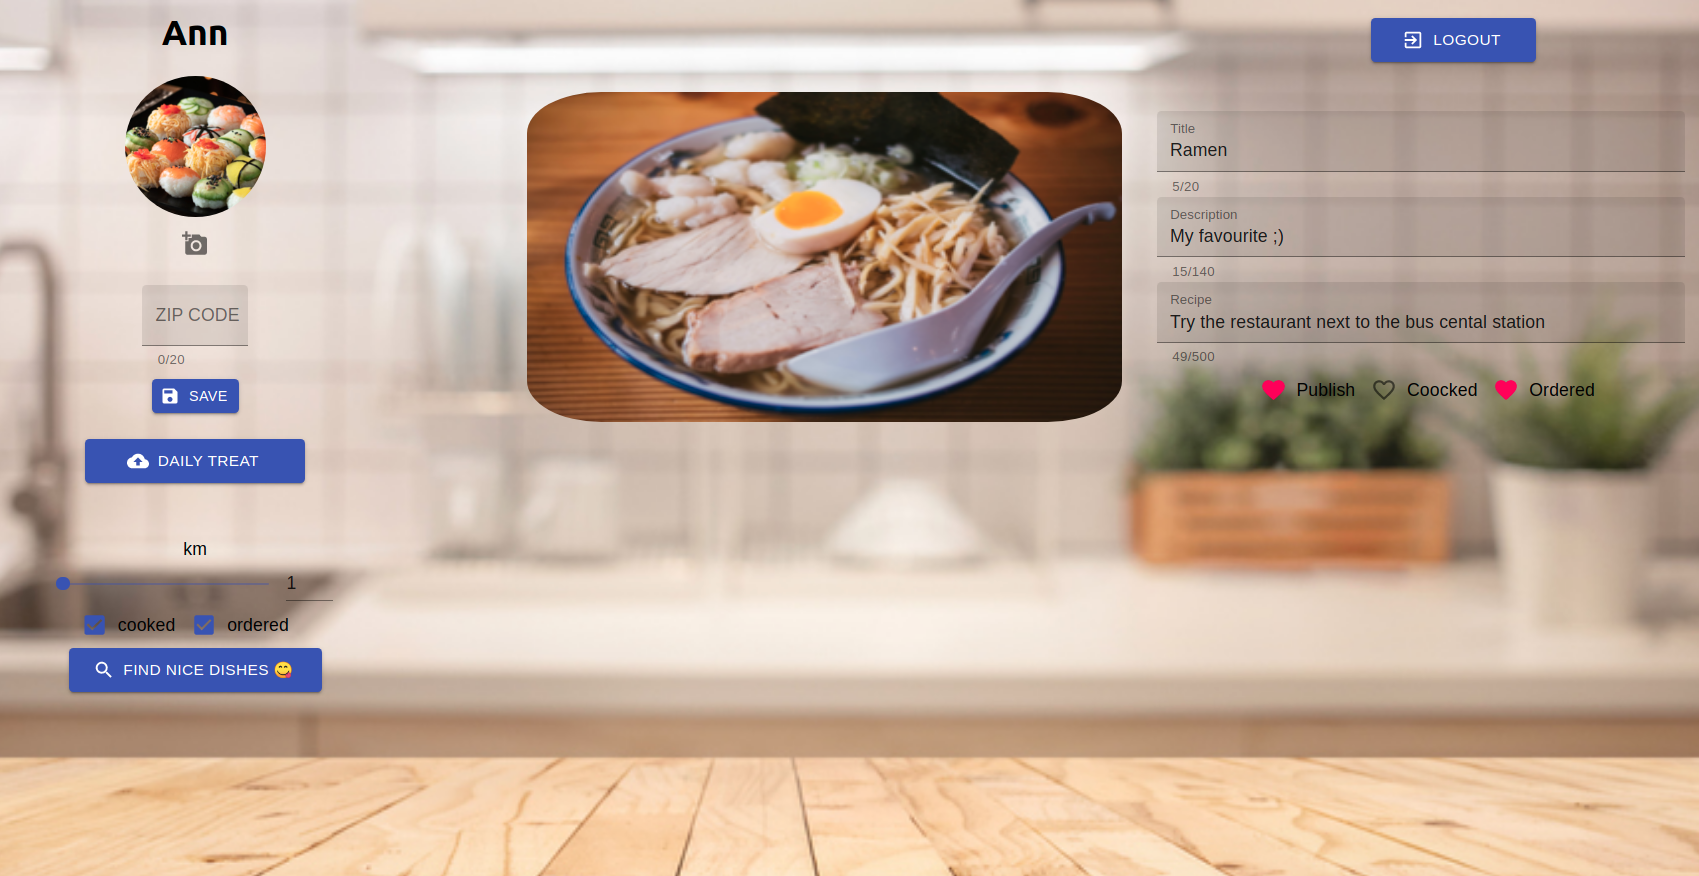
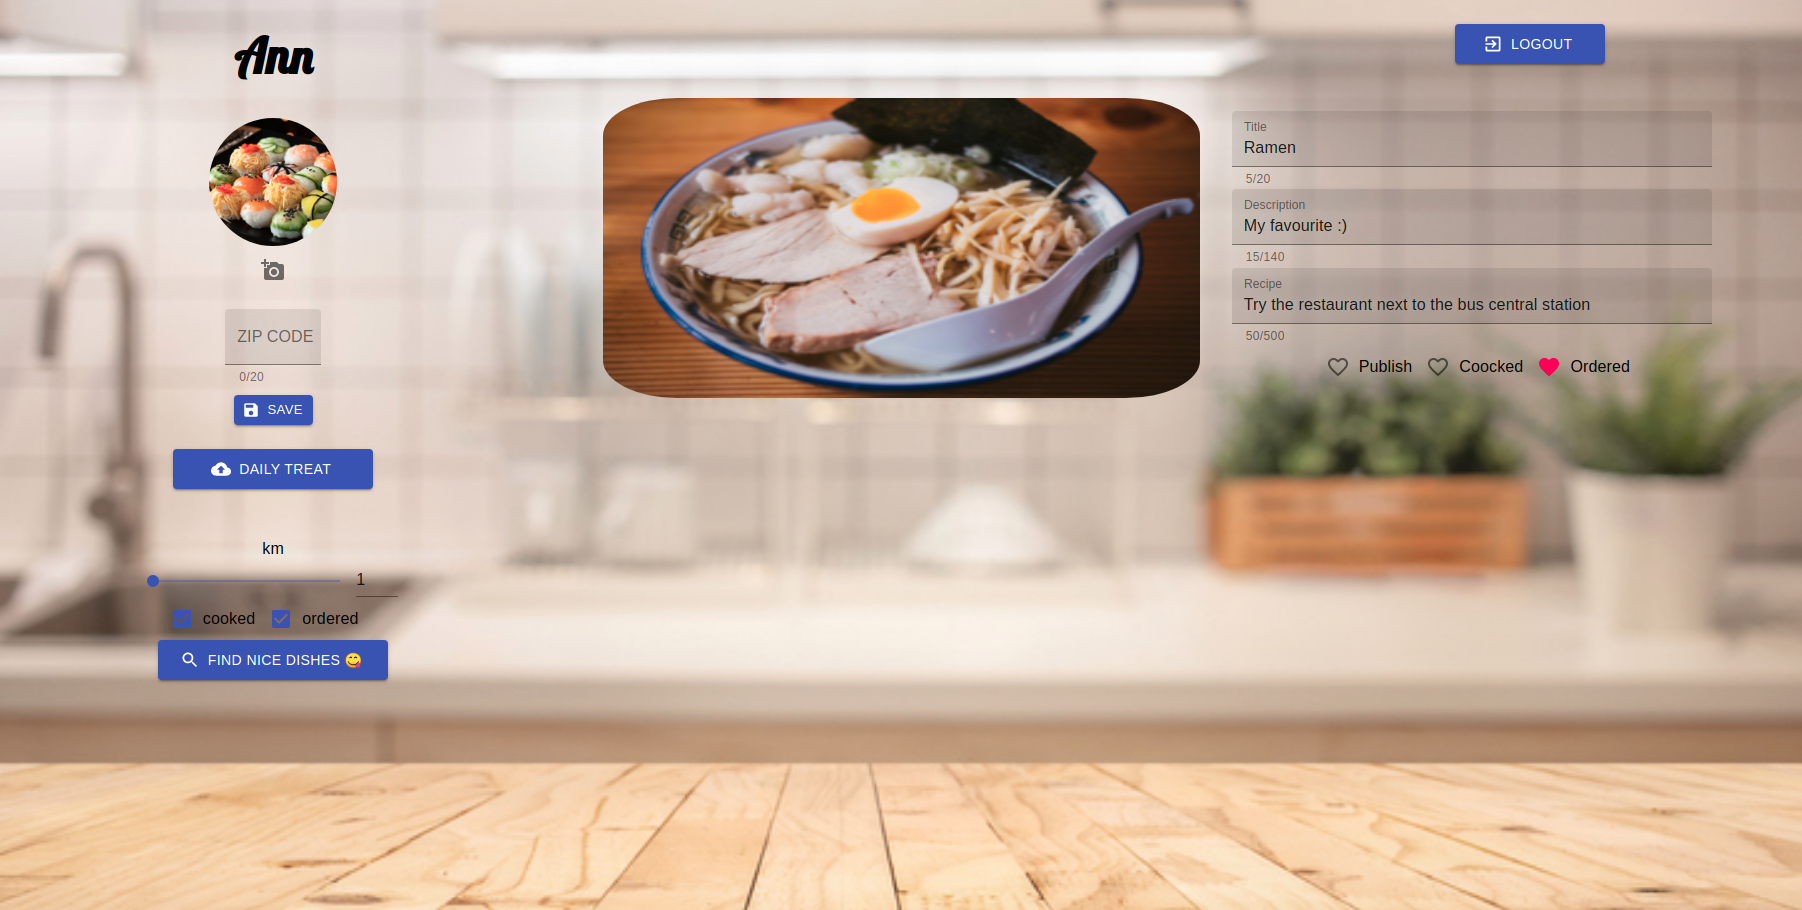
docs: change images with new fonts

diff --git a/client/src/styles/utils/_typography.scss b/client/src/styles/utils/_typography.scss
@@ -1,3 +1,2 @@
 @import url('https://fonts.googleapis.com/css2?family=Lobster&display=swap');
-@import url('https://fonts.googleapis.com/css2?family=Permanent+Marker&display=swap');
 @import url('https://fonts.googleapis.com/css2?family=Crimson+Pro:wght@300&family=Mochiy+Pop+One&display=swap');

diff --git a/client/src/styles/utils/_variables.scss b/client/src/styles/utils/_variables.scss
@@ -2,4 +2,4 @@
 
 $font-app-name: 'Lobster', cursive;
 $font-dish-text: 'Crimson Pro', serif;
-$font-dish-publisher: 'Permanent Marker', cursive;
+$font-dish-publisher: 'Lobster', cursive;
